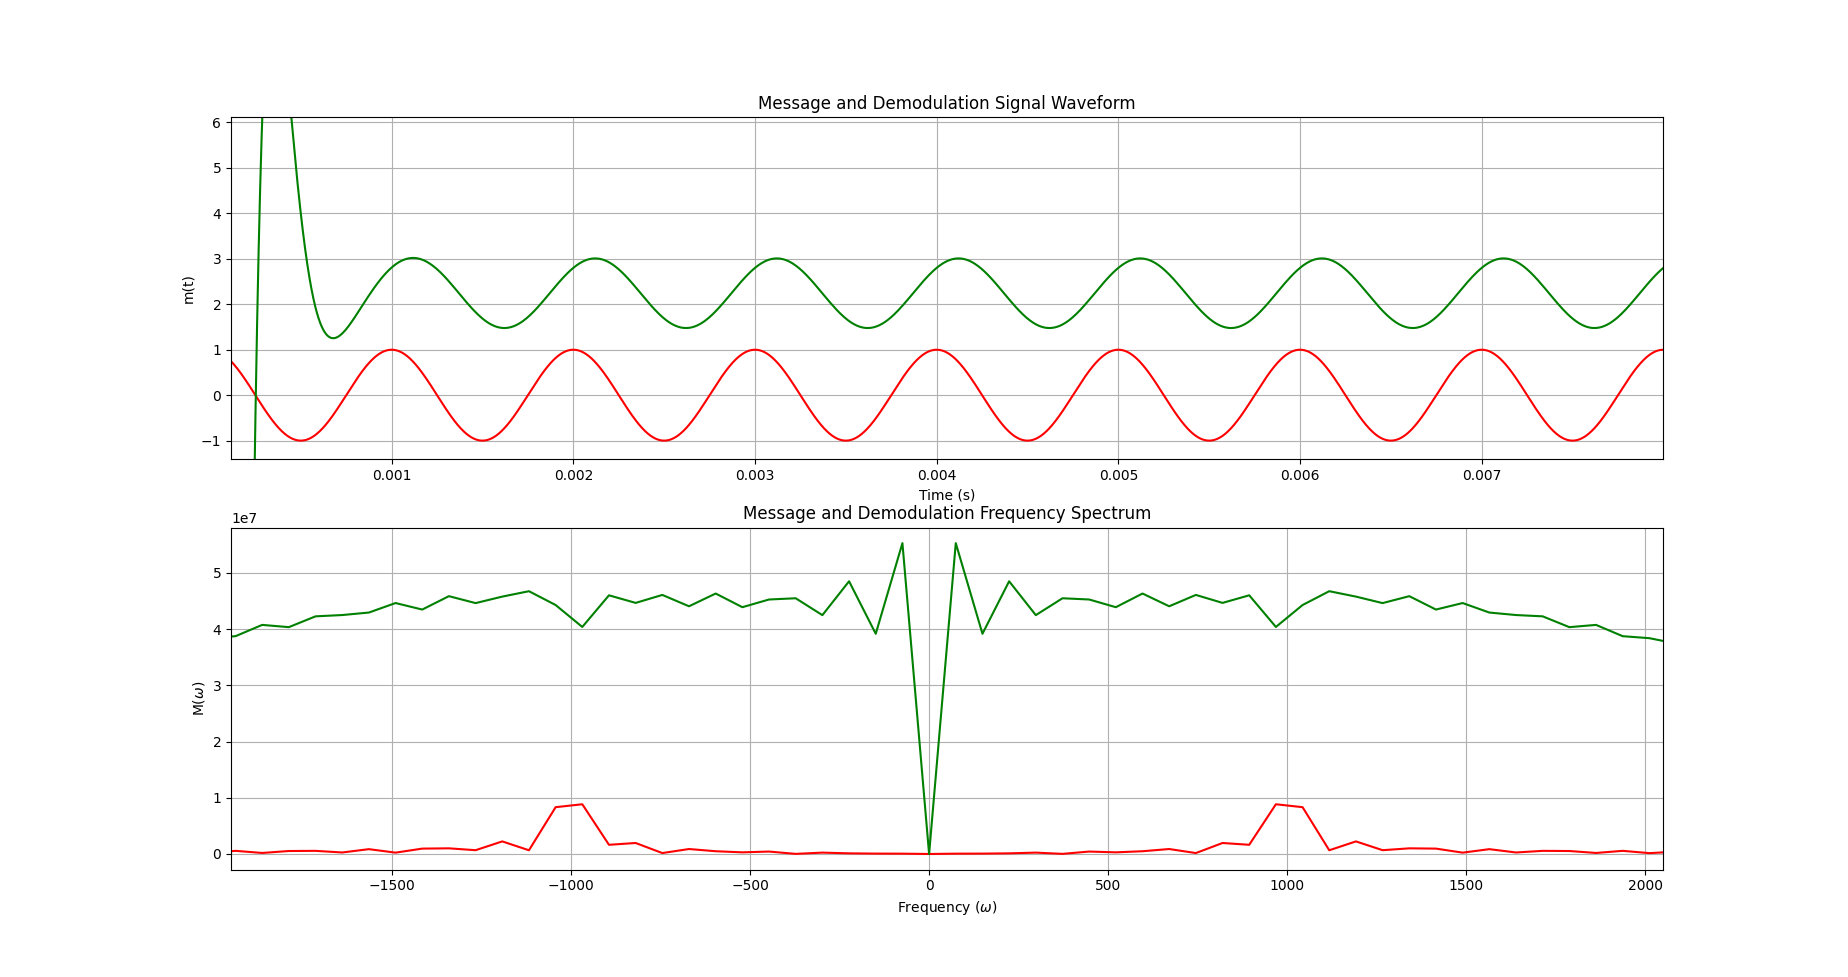
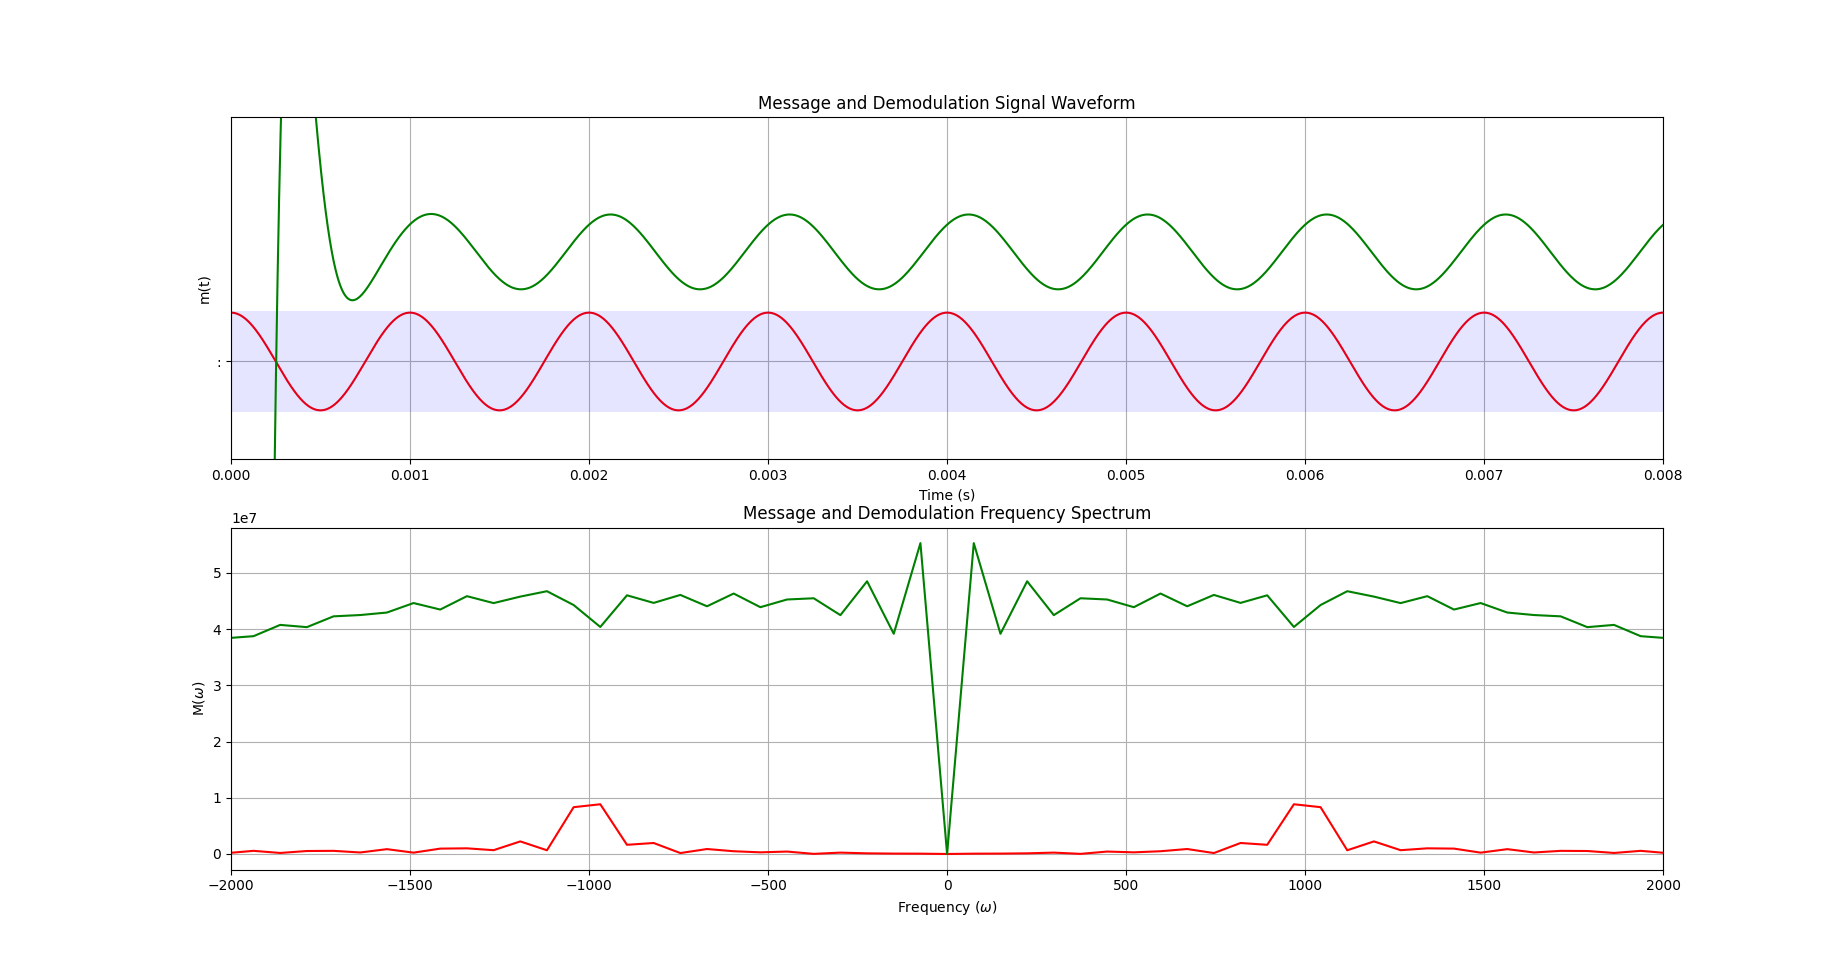
Added the FM modulated waveform Appears as a continuous white flab, variation due to FM barely visible to the naked eye

diff --git a/assignment.py b/assignment.py
@@ -74,7 +74,7 @@ m_noisy_fft = scipy.fft.fftshift(scipy.fft.fft(m_noisy_padded))
 # Time-domain waveform
 fig, ax = plt.subplots(nrows=2,ncols=1)
 ax[0].plot(t,m,'r')
-#ax.plot(t,psi,'b')
+ax[0].plot(t,psi,'b',':',alpha=0.1)
 ax[0].plot(t,m_noisy,'green')
 #ax.plot(t,m_noiseless,'black')
 ax[0].set(
@@ -82,10 +82,13 @@ ax[0].set(
     ylabel="m(t)",
     title="Message and Demodulation Signal Waveform",
 )
-ax[0].set_ylim(ymin=-2.0,ymax=+3.0)
+ax[0].set_ylim(
+    ymin=-2.0,
+    ymax=+5.0
+)
 ax[0].set_xlim(
-    left=2/fm,
-    right=3/fm
+    xmin=0.0,
+    xmax=0.008
 )
 ax[0].grid()
 #Frequency spectrum
